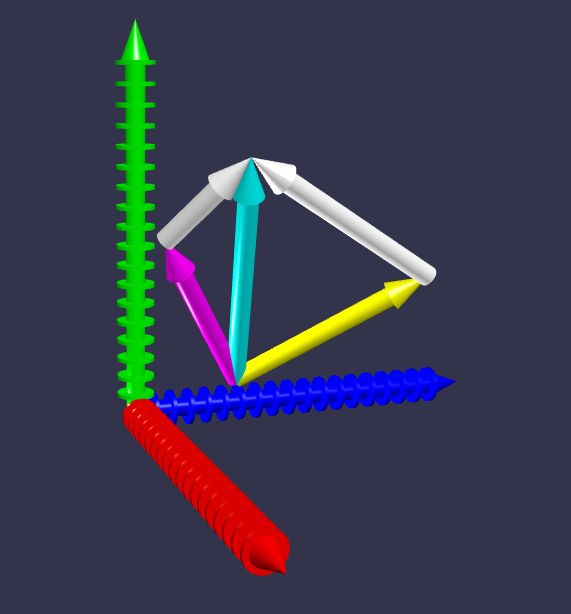
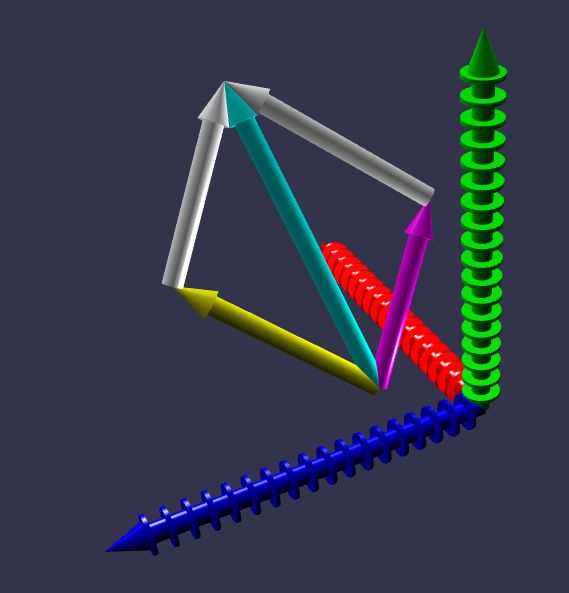
fixed issue with addition example

Changed region(s): [[0.1793, 0.0304, 0.8963, 0.941]]

diff --git a/vectors.js b/vectors.js
@@ -167,9 +167,10 @@ var createScene = function () {
         const v = pB.subtract(pA);
         const w = pC.subtract(pA);
         const t = v.add(w);
-        drawArrow(scene, pA, t, new BABYLON.Color3(0, 1, 1), false); // light blue
-        drawArrow(scene, pB, t, new BABYLON.Color3(1, 1, 1), false); // white
-        drawArrow(scene, pC, t, new BABYLON.Color3(1, 1, 1), false); // white
+        const pD = pA.add(t);
+        drawArrow(scene, pA, pD, new BABYLON.Color3(0, 1, 1), false); // light blue
+        drawArrow(scene, pB, pD, new BABYLON.Color3(1, 1, 1), false); // white
+        drawArrow(scene, pC, pD, new BABYLON.Color3(1, 1, 1), false); // white
     }
     
     return scene;

diff --git a/index.html b/index.html
@@ -223,9 +223,10 @@ var createScene = function () {
         const v = pB.subtract(pA);
         const w = pC.subtract(pA);
         const t = v.add(w);
-        drawArrow(scene, pA, t, new BABYLON.Color3(0, 1, 1), false);
-        drawArrow(scene, pB, t, new BABYLON.Color3(1, 1, 1), false);
-        drawArrow(scene, pC, t, new BABYLON.Color3(1, 1, 1), false);
+        const pD = pA.add(t);
+        drawArrow(scene, pA, pD, new BABYLON.Color3(0, 1, 1), false);
+        drawArrow(scene, pB, pD, new BABYLON.Color3(1, 1, 1), false);
+        drawArrow(scene, pC, pD, new BABYLON.Color3(1, 1, 1), false);
     }
     
     return scene;

diff --git a/README.md b/README.md
@@ -84,7 +84,7 @@ which can be simply derived from the dot product definition.
 
 $$ a \times b = ||a|| ||b|| \sin(\theta) n $$
 
-where \theta is the angle between _a_ and _b_ in the plane containing them (0°..180°) and _n_ is the unit vector perpendicular to such plane (right-hand rule):
+where &theta; is the angle between _a_ and _b_ in the plane containing them (0°..180°) and _n_ is the unit vector perpendicular to such plane (right-hand rule):
 
 ![right-hand rule](/images/right_hand.jpg)
 
@@ -131,9 +131,10 @@ drawArrow(scene, pA, pC, new BABYLON.Color3(1, 0, 1), false); // purple
 const v = pB.subtract(pA);
 const w = pC.subtract(pA);
 const t = v.add(w);
-drawArrow(scene, pA, t, new BABYLON.Color3(0, 1, 1), false); // light blue
-drawArrow(scene, pB, t, new BABYLON.Color3(1, 1, 1), false); // white
-drawArrow(scene, pC, t, new BABYLON.Color3(1, 1, 1), false); // white
+const pD = pA.add(t);
+drawArrow(scene, pA, pD, new BABYLON.Color3(0, 1, 1), false); // light blue
+drawArrow(scene, pB, pD, new BABYLON.Color3(1, 1, 1), false); // white
+drawArrow(scene, pC, pD, new BABYLON.Color3(1, 1, 1), false); // white
 ```
 
 ![addition](/images/addition.jpg)
